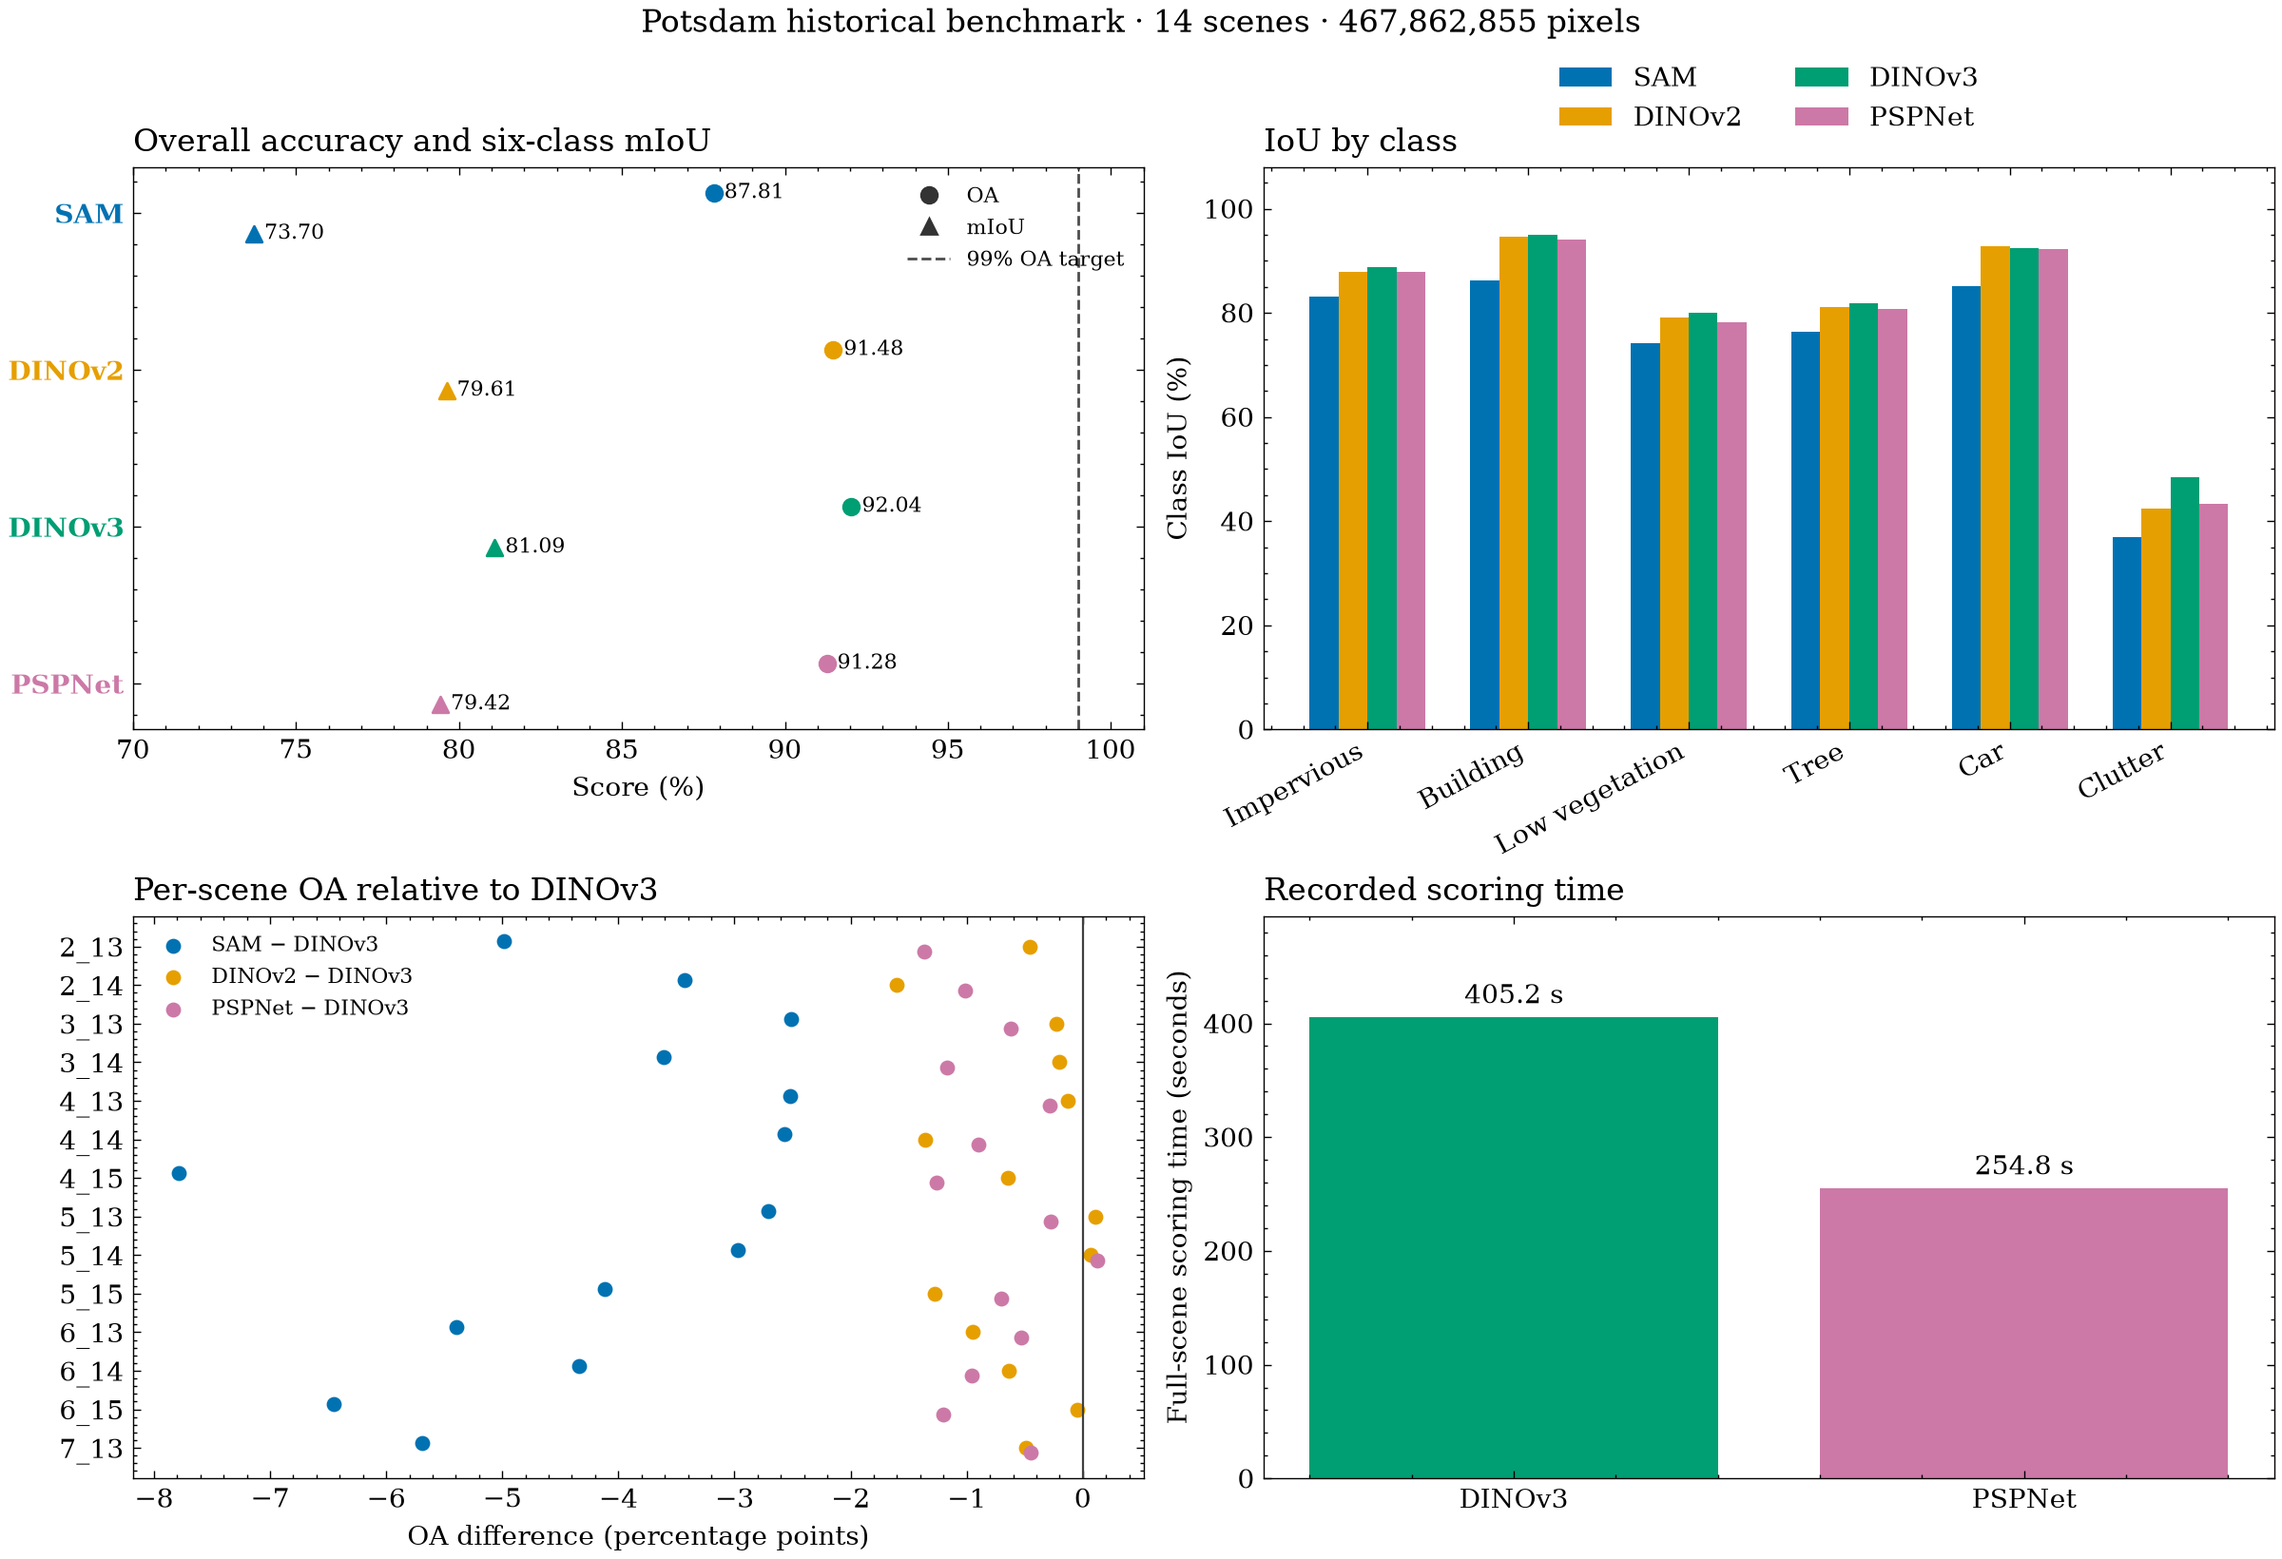
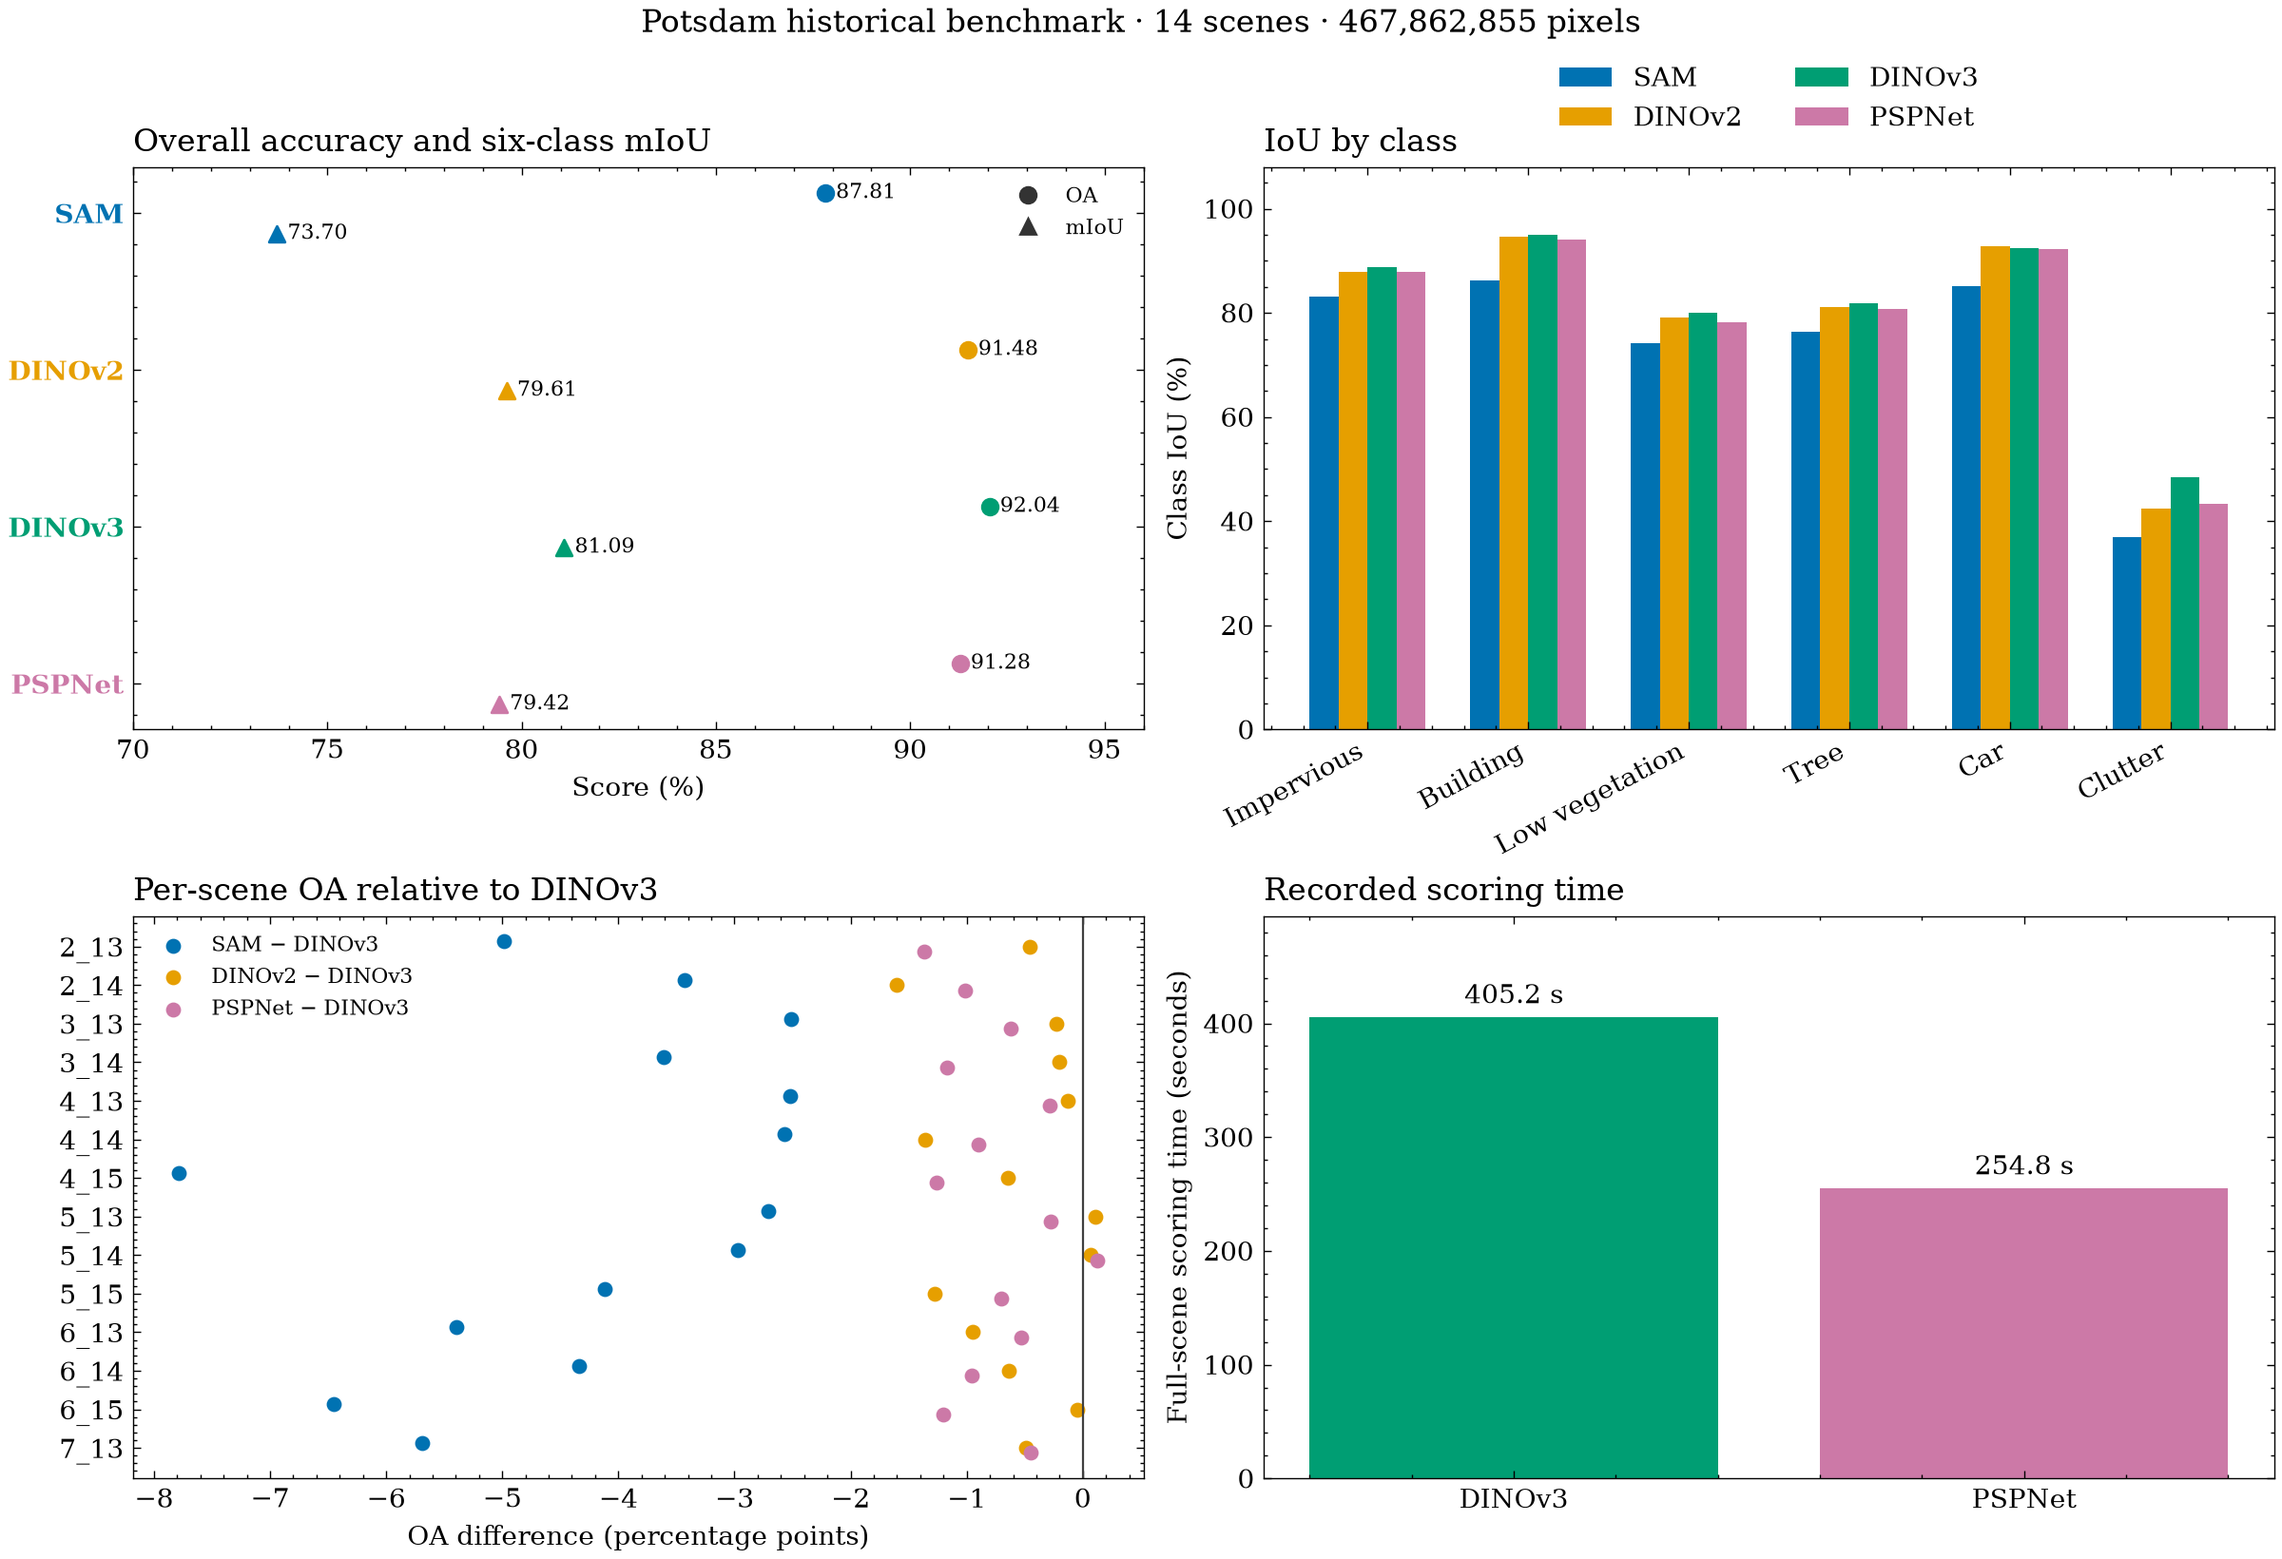
Refocus project on single-model pipeline

diff --git a/scripts/render_scienceplots.py b/scripts/render_scienceplots.py
@@ -391,8 +391,7 @@ def model_comparison_figure(pspnet_run, dinov3_run):
             va="center",
             fontsize=8,
         )
-    score_ax.axvline(99, color="0.3", linestyle="--")
-    score_ax.set(xlim=(70, 101), yticks=y, yticklabels=model_labels, xlabel="Score (%)")
+    score_ax.set(xlim=(70, 96), yticks=y, yticklabels=model_labels, xlabel="Score (%)")
     score_ax.invert_yaxis()
     score_ax.set_title("Overall accuracy and six-class mIoU", loc="left")
     for tick, color in zip(score_ax.get_yticklabels(), model_colors, strict=True):
@@ -402,7 +401,6 @@ def model_comparison_figure(pspnet_run, dinov3_run):
         handles=(
             plt.Line2D([], [], marker="o", color="0.2", linestyle="", label="OA"),
             plt.Line2D([], [], marker="^", color="0.2", linestyle="", label="mIoU"),
-            plt.Line2D([], [], color="0.3", linestyle="--", label="99% OA target"),
         ),
         loc="upper right",
         fontsize=8,

diff --git a/deepnet/potsdam_rgbir/phases.py b/deepnet/potsdam_rgbir/phases.py
@@ -611,10 +611,6 @@ def heldout(args: argparse.Namespace) -> None:
             "inference_seconds": inference_seconds,
             "remaining_errors": checked["pixels_scored"]
             - sum(checked["confusion_matrix"][i][i] for i in range(6)),
-            "oa_goal": protocol["oa_goal"],
-            "oa_shortfall_percentage_points": max(
-                0, 100 * (protocol["oa_goal"] - checked["overall_accuracy"])
-            ),
             "benchmark_scope": (
                 "Previously observed historical 14-scene benchmark; not a fresh holdout"
             ),

diff --git a/deepnet/potsdam_study.py b/deepnet/potsdam_study.py
@@ -746,10 +746,6 @@ def run_heldout(args):
             "checkpoint_sha256": refit["final_checkpoint_sha256"],
             "protocol_hash": protocol["protocol_hash"],
             "heldout_evaluation_count": 1,
-            "oa_goal": 0.99,
-            "oa_shortfall_percentage_points": max(
-                0, 100 * (0.99 - measured["overall_accuracy"])
-            ),
         }
         write_json(out / "metrics.json", report)
     artifact_index(out)

diff --git a/deepnet/potsdam_rgbir/types.py b/deepnet/potsdam_rgbir/types.py
@@ -158,7 +158,6 @@ class ProtocolConfig(TypedDict):
     inference: InferenceConfig
     gpu_hours: GPUHours
     small_fit: SmallFitConfig
-    oa_goal: float
 
 
 class ModelTiming(TypedDict):

diff --git a/README.md b/README.md
@@ -4,15 +4,17 @@
 semantic segmentation of high-resolution Potsdam orthophotos, and what accuracy–runtime
 trade-off does it show against a conventional convolutional model?
 
-**Current thesis.** On the 14-scene Potsdam benchmark cohort, the DINOv3-B RGB recipe is
-the strongest evaluated system so far (92.04% overall accuracy and 81.09% six-class
-mIoU). The matched PSPNet RGB recipe scores slightly lower but takes less time to score
-the full scenes. Neither reaches the 99% OA target. The largest remaining weakness is
-clutter/background, while low-vegetation and tree confusions also account for many
-errors. Adding the bundled IR/index/DSM features or stronger generic augmentation did
-not improve the DINOv3 selection result. These findings describe complete model recipes
-on a benchmark cohort whose scores were seen in earlier campaigns; they do not establish
-performance on a newly sampled city or untouched test set.
+**Current thesis.** The project aims to build a reproducible satellite-data training
+and evaluation pipeline and maximize single-model segmentation performance, without
+ensembles. On the 14-scene Potsdam benchmark cohort, DINOv3-B RGB is the strongest
+evaluated recipe so far (92.04% overall accuracy and 81.09% six-class mIoU). The matched
+PSPNet RGB recipe scores slightly lower but takes less time to score full scenes. The
+largest remaining weakness is clutter/background, while low-vegetation and tree
+confusions also account for many errors. Adding the bundled IR/index/DSM features or
+stronger generic augmentation did not improve the DINOv3 selection result. These
+findings describe complete model recipes on a benchmark cohort whose scores were seen
+in earlier campaigns; they do not establish performance on a newly sampled city or
+untouched test set.
 
 ## The result in one view
 
@@ -24,8 +26,8 @@ differences, and the recorded full-scene scoring time.
 
 *Figure 1. Aggregate OA and six-class mIoU; IoU for impervious surfaces, buildings, low
 vegetation, trees, cars, and clutter/background; per-scene OA relative to DINOv3; and
-recorded full-scene scoring time, rather than model-forward-only time. The 99% reference
-applies to OA. PSPNet and DINOv3 share the RGB cache and 512×512 windows at stride 256.
+recorded full-scene scoring time, rather than model-forward-only time. PSPNet and
+DINOv3 share the RGB cache and 512×512 windows at stride 256.
 SAM and DINOv2 retain their historical inference recipes, so this is a recipe-level
 comparison rather than a controlled architecture-only study. The plotted data and figure
 command are documented in [Figure
@@ -41,9 +43,9 @@ reproduction](docs/figures.md#consolidated-readme-benchmark).*
 The DINOv3 refit improves on DINOv2 by 0.5612 percentage points OA and 1.4810 mIoU
 points, reducing errors by 2,625,662 (6.59%). It improves OA on 12 of 14 scenes and
 raises IoU on five of six classes. Clutter IoU rises by 6.0635 points to 48.4383%; car
-IoU changes by −0.2816 point to 92.4418%. Even so, DINOv3 is 6.9603 OA points below 99%
-and would need 32,564,592 fewer errors on this cohort—an 87.44% reduction from its
-current error count. The [DINOv3 final
+IoU changes by −0.2816 point to 92.4418%. DINOv3 still makes 37,243,220 errors on this
+cohort; clutter IoU is 48.4383%, and low-vegetation/tree confusions remain frequent.
+The [DINOv3 final
 review](docs/experiments/potsdam-dinov3-rgbir-v2-final-review-2026-11-06.md) contains
 the confusion matrices, per-scene scores, checkpoint audit, and limits of this
 comparison.
@@ -139,10 +141,11 @@ and [PSPNet comparison report](docs/experiments/potsdam-pspnet-rgb-v1.md) descri
 other model and protocol details. PSPNet is one seed; its result compares complete
 systems and does not isolate the backbone.
 
-The 99% target is still an open research goal. The current matrices place the most
-direct next questions around clutter/background, class-boundary ambiguity, and
-low-vegetation/tree confusions. The next improvement should be tested with per-class
-evidence and a held-out region not previously used to compare these recipes.
+The next research question is how to improve the end-to-end data and training pipeline
+while preserving strong per-class performance and generalization. The current matrices
+point to clutter/background, class-boundary ambiguity, and low-vegetation/tree
+confusions as important areas to investigate. New recipes should be tested with
+per-class evidence and a held-out region not previously used to compare them.
 
 ## Data and evaluation contract
 

diff --git a/docs/experiments/potsdam-dinov2-coverage-refit-final-review-2026-11-05.md b/docs/experiments/potsdam-dinov2-coverage-refit-final-review-2026-11-05.md
@@ -4,8 +4,8 @@ The 24-scene continuation completed its declared 1,152 optimizer updates, and
 the final checkpoint was evaluated once on all 14 held-out scenes. Independently
 recomputed OA is **91.4785%** and six-class mIoU is **79.6122%** on exactly
 467,862,855 valid pixels. This exceeds historical SAM by 3.6643 OA points and
-5.9097 mIoU points. The **99% OA target was not reached**: the shortfall is
-7.5215 percentage points.
+5.9097 mIoU points. The result establishes the measured single-model DINOv2
+reference for the subsequent Potsdam study.
 
 ## Final held-out results
 
@@ -41,9 +41,6 @@ vegetation confusions in both directions contribute 11,813,440 pixels, or 29.63%
 of all errors. Another 4,876,846 clutter pixels become impervious surfaces and
 2,572,988 become low vegetation. Scene `4_14` is the weakest at OA 84.5825% and
 mIoU 72.7476%; OA across scenes ranges up to 94.1487%, and mIoU up to 84.7020%.
-
-At this pixel count, 99% OA permits at most 4,678,628 errors. It would require
-35,190,254 fewer errors than measured (an 88.26% reduction).
 
 ## Selection and continuation
 

diff --git a/docs/experiments/potsdam-dinov3-rgbir-v2-final-review-2026-11-06.md b/docs/experiments/potsdam-dinov3-rgbir-v2-final-review-2026-11-06.md
@@ -3,9 +3,9 @@
 DINOv3-B RGB reached **92.0397% OA and 81.0932% six-class mIoU** on
 **467,862,855 valid pixels** from 14 historical benchmark scenes. The benchmark
 scored the final 1,152-update refit checkpoint once. Relative to DINOv2, OA rose
-**0.5612 percentage points** and mIoU rose **1.4810 points**. OA fell 6.9603
-points short of the 99% target. The campaign used **13.4557472 of 24 allocated
-GPU-hours**, including bootstrap, the failed preflight and both T4s.
+**0.5612 percentage points** and mIoU rose **1.4810 points**. The campaign
+used **13.4557472 of 24 allocated GPU-hours**, including bootstrap, the failed
+preflight and both T4s.
 
 ## Final benchmark results
 
@@ -55,9 +55,6 @@ confusions are:
 | Impervious surfaces | Low vegetation | 3,380,493 | 9.08% |
 | Low vegetation | Impervious surfaces | 2,510,302 | 6.74% |
 | Clutter/background | Low vegetation | 2,261,680 | 6.07% |
-
-At this pixel count, 99% OA permits at most **4,678,628** errors. The final
-model would need **32,564,592 fewer errors** (an **87.44%** reduction).
 
 ## Per-scene results
 

diff --git a/docs/experiments/potsdam-pspnet-rgb-v1.md b/docs/experiments/potsdam-pspnet-rgb-v1.md
@@ -81,11 +81,9 @@ covers full-scene scoring rather than model forward alone.
 PSPNet trails in OA on 13 of 14 scenes and has lower IoU in all six classes.
 The largest class gap is clutter, where PSPNet recall is
 53.85% versus 60.39% for DINOv3.
-PSPNet's OA is **7.7166 points short of 99%**, requiring at least
-36,103,215 fewer incorrect pixels on this cohort. The measured
-tradeoff is lower scoring time and GPU cost with lower accuracy for the tested
-PSPNet recipe. This single-seed comparison of complete systems does not isolate
-the encoder or establish the same tradeoff on a new dataset.
+The measured tradeoff is lower scoring time and GPU cost with lower accuracy for
+the tested PSPNet recipe. This single-seed comparison of complete systems does
+not isolate the encoder or establish the same tradeoff on a new dataset.
 
 <details>
 <summary>OA by benchmark scene</summary>

diff --git a/docs/experiments/potsdam-dinov2-coverage-refit.md b/docs/experiments/potsdam-dinov2-coverage-refit.md
@@ -4,7 +4,9 @@ This study tests a smaller normalized ViT-B/14 decoder and a channel-preserving
 IRRG adapter. A/B/C select features and augmentation on the existing 18/6 split.
 A seed-43 confirmation must pass the same validation floors. Only then may the
 winner be continued on 24 participant-labeled scenes. The 14 test scenes are
-scored once, using the final refit checkpoint. OA 99% is the target.
+scored once, using the final refit checkpoint. Candidates must clear the
+historical SAM OA, mIoU, car IoU, and clutter IoU floors, then rank by validation
+OA and mIoU under the frozen protocol.
 
 Use the project environment with the model, training and vision extras.
 Keep the study directory, bundles, checkpoints and logs outside Git.

diff --git a/docs/experiments/potsdam-dinov3-rgbir-v2.md b/docs/experiments/potsdam-dinov3-rgbir-v2.md
@@ -1,8 +1,9 @@
 # Potsdam DINOv3 RGBIR v2
 
-The Potsdam DINOv3 campaign targeted 99% OA with 24 allocated GPU-hours on
-Kaggle. The previous DINOv2 refit scored 91.4785% OA and 79.6122% six-class
-mIoU.
+The Potsdam DINOv3 campaign evaluated a single-model RGBIR/DSM pipeline on
+Kaggle within a 24 allocated GPU-hour budget. Its research objective is to
+maximize reproducible segmentation performance without ensembling. The previous
+DINOv2 refit scored 91.4785% OA and 79.6122% six-class mIoU.
 
 The [CUDA preflight](potsdam-dinov3-rgbir-v2-preflight-2026-11-05.md) set an
 eight-pass ViT-B schedule. Satellite ViT-L exceeded the six-pass cost limit. A

diff --git a/docs/experiments/potsdam-dinov3-rgbir-v2-selection-review-2026-11-05.md b/docs/experiments/potsdam-dinov3-rgbir-v2-selection-review-2026-11-05.md
@@ -27,8 +27,7 @@ Eligibility uses exact confusion counts. Selected checkpoint SHA-256:
[1 lines of base64/hex data omitted]
 
 The reference makes 14,162,511 validation errors; A makes 13,870,767, or
-**291,744 fewer** (2.06%). A is 5.9559 OA points below 99%, which would require
-at least 11,876,670 fewer validation errors.
+**291,744 fewer** (2.06%).
 
 | Class | Selected A IoU | Selected A F1 |
 | --- | ---: | ---: |

diff --git a/docs/experiments/potsdam-dinov3-rgbir-v2-selection-review-2026-11-06.md b/docs/experiments/potsdam-dinov3-rgbir-v2-selection-review-2026-11-06.md
@@ -24,8 +24,7 @@ exact confusion matrices before rounding.
 | B minus A, percentage points | -0.0517 | -0.1401 | -0.0372 | -0.3669 | A ranks first |
 
 B made **13,973,954 validation errors** versus A's 13,870,767 (103,187 more). A
-ranked first and supplied C's recipe. A was 5.9559 OA points below the 99%
-target.
+ranked first and supplied C's recipe.
 
 | Class | A IoU | B IoU | B minus A, points |
 | --- | ---: | ---: | ---: |
